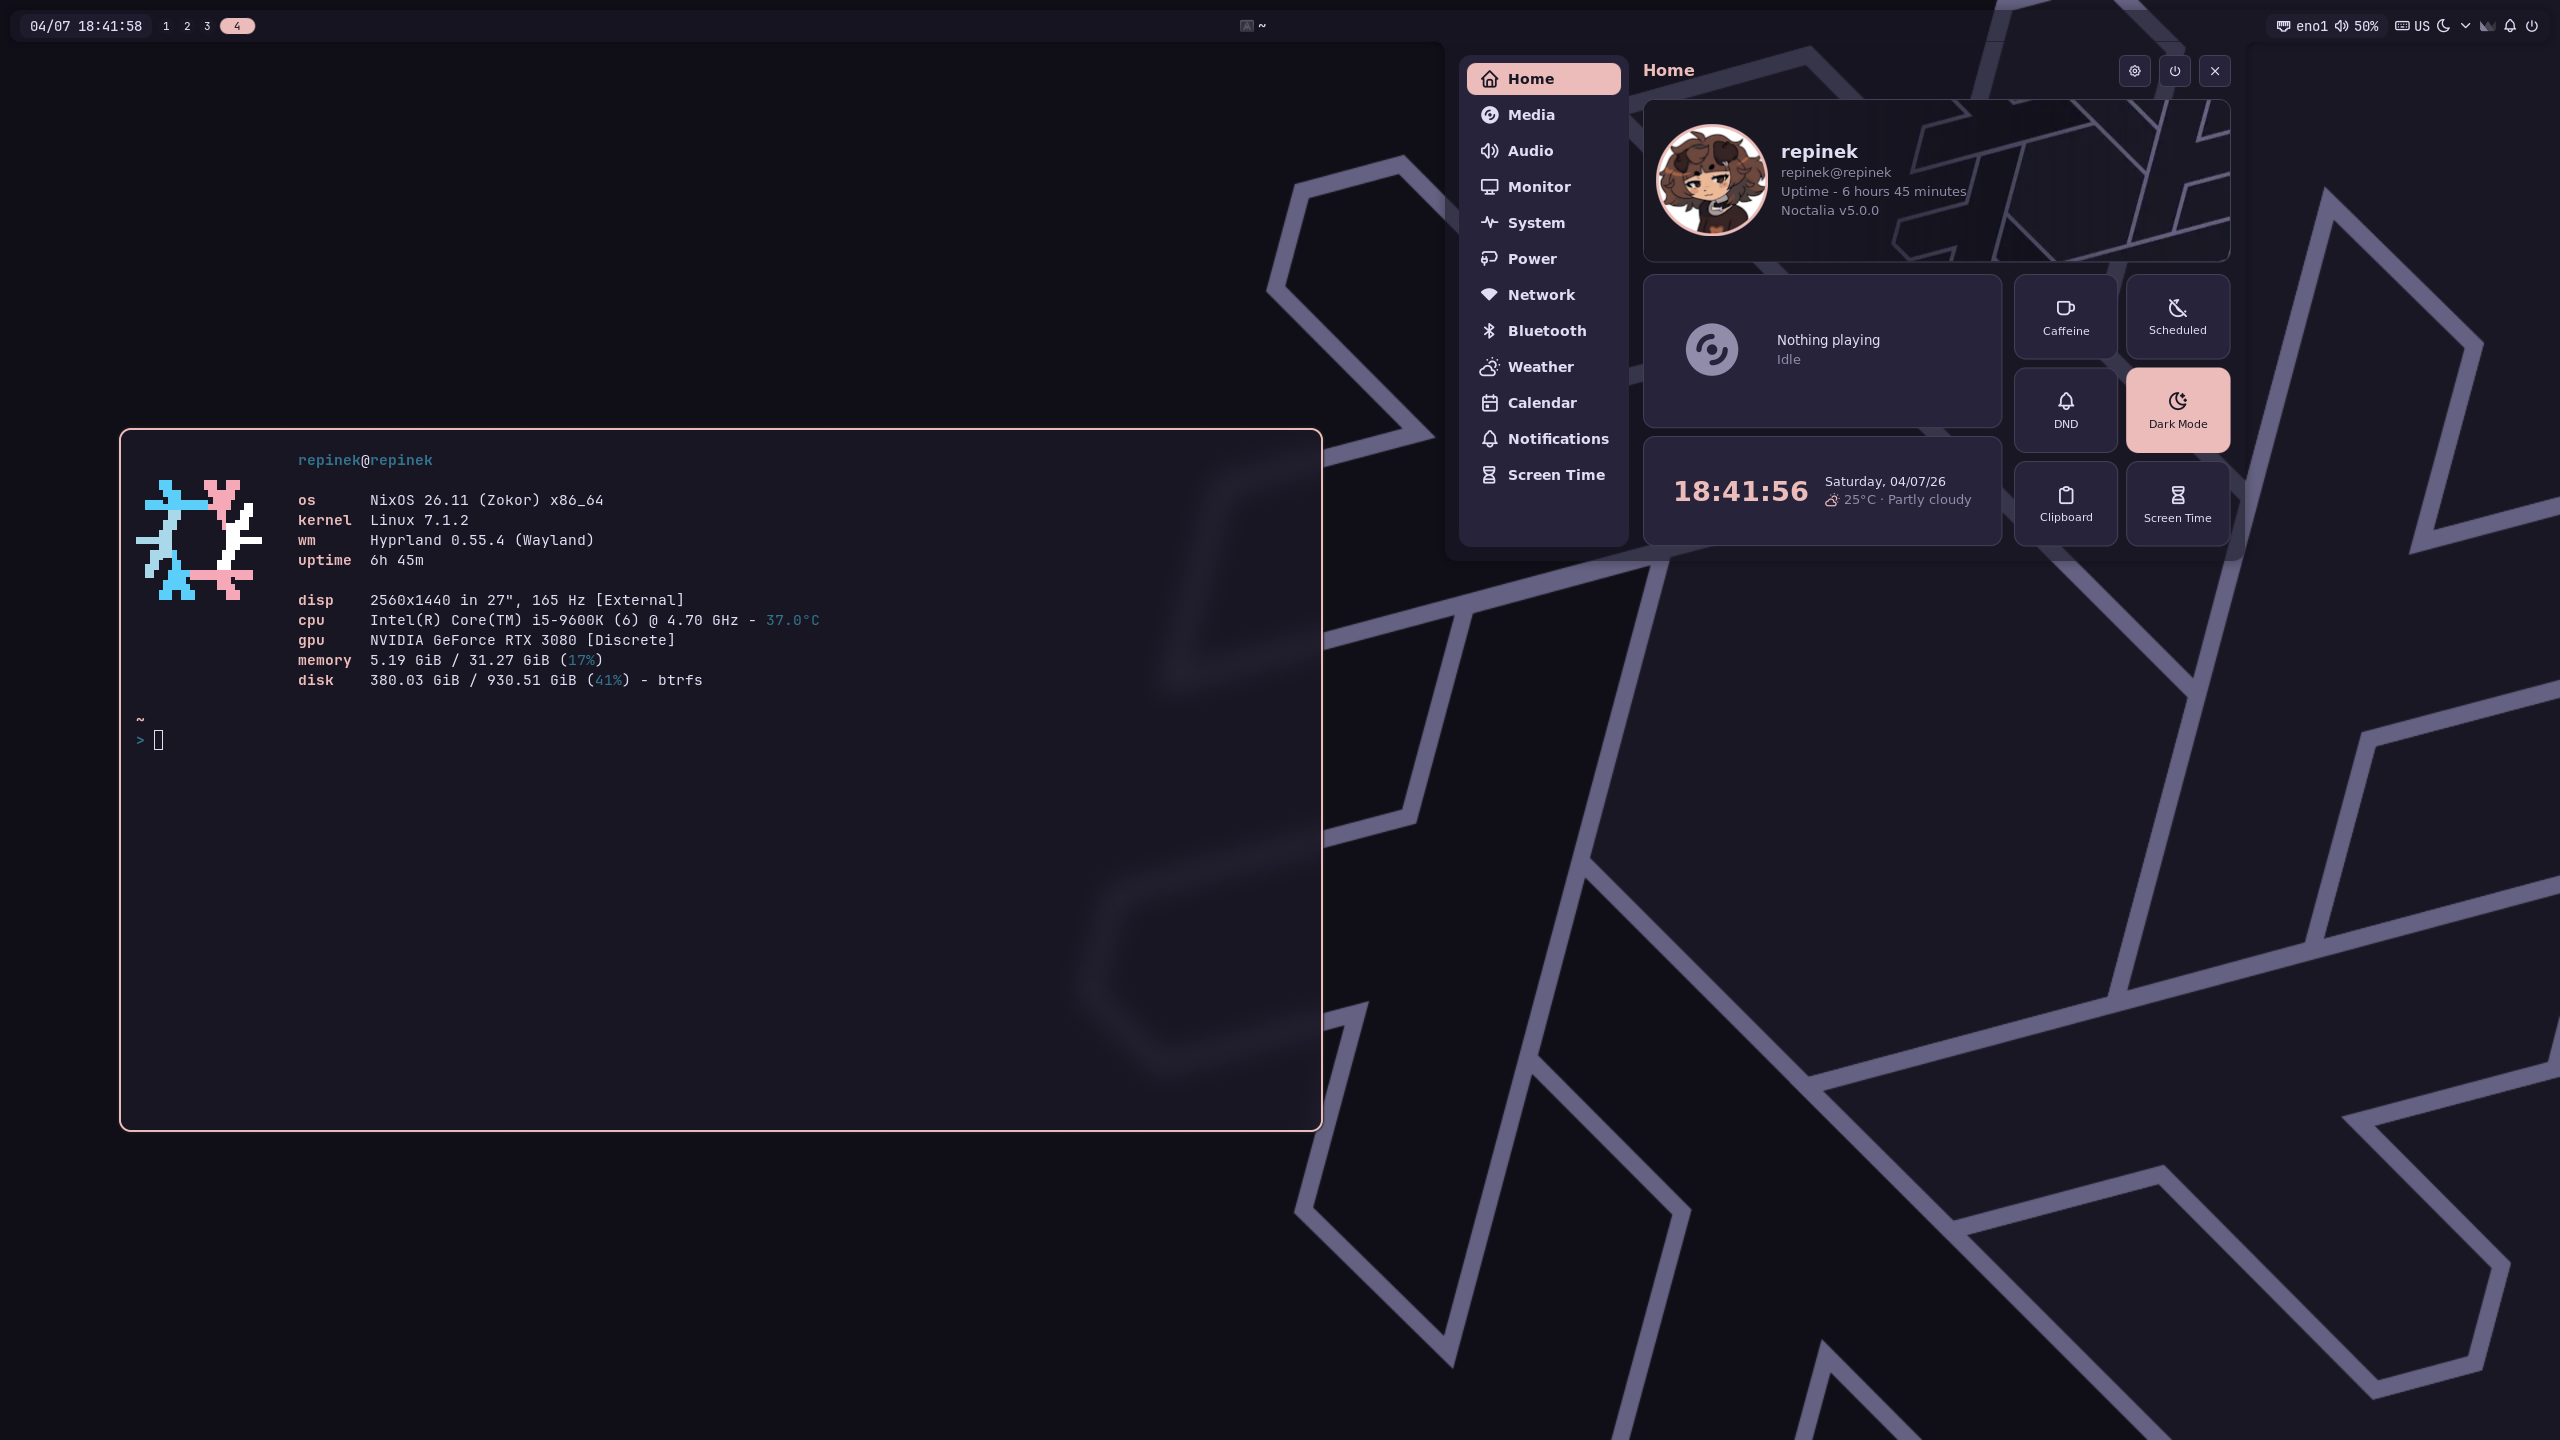
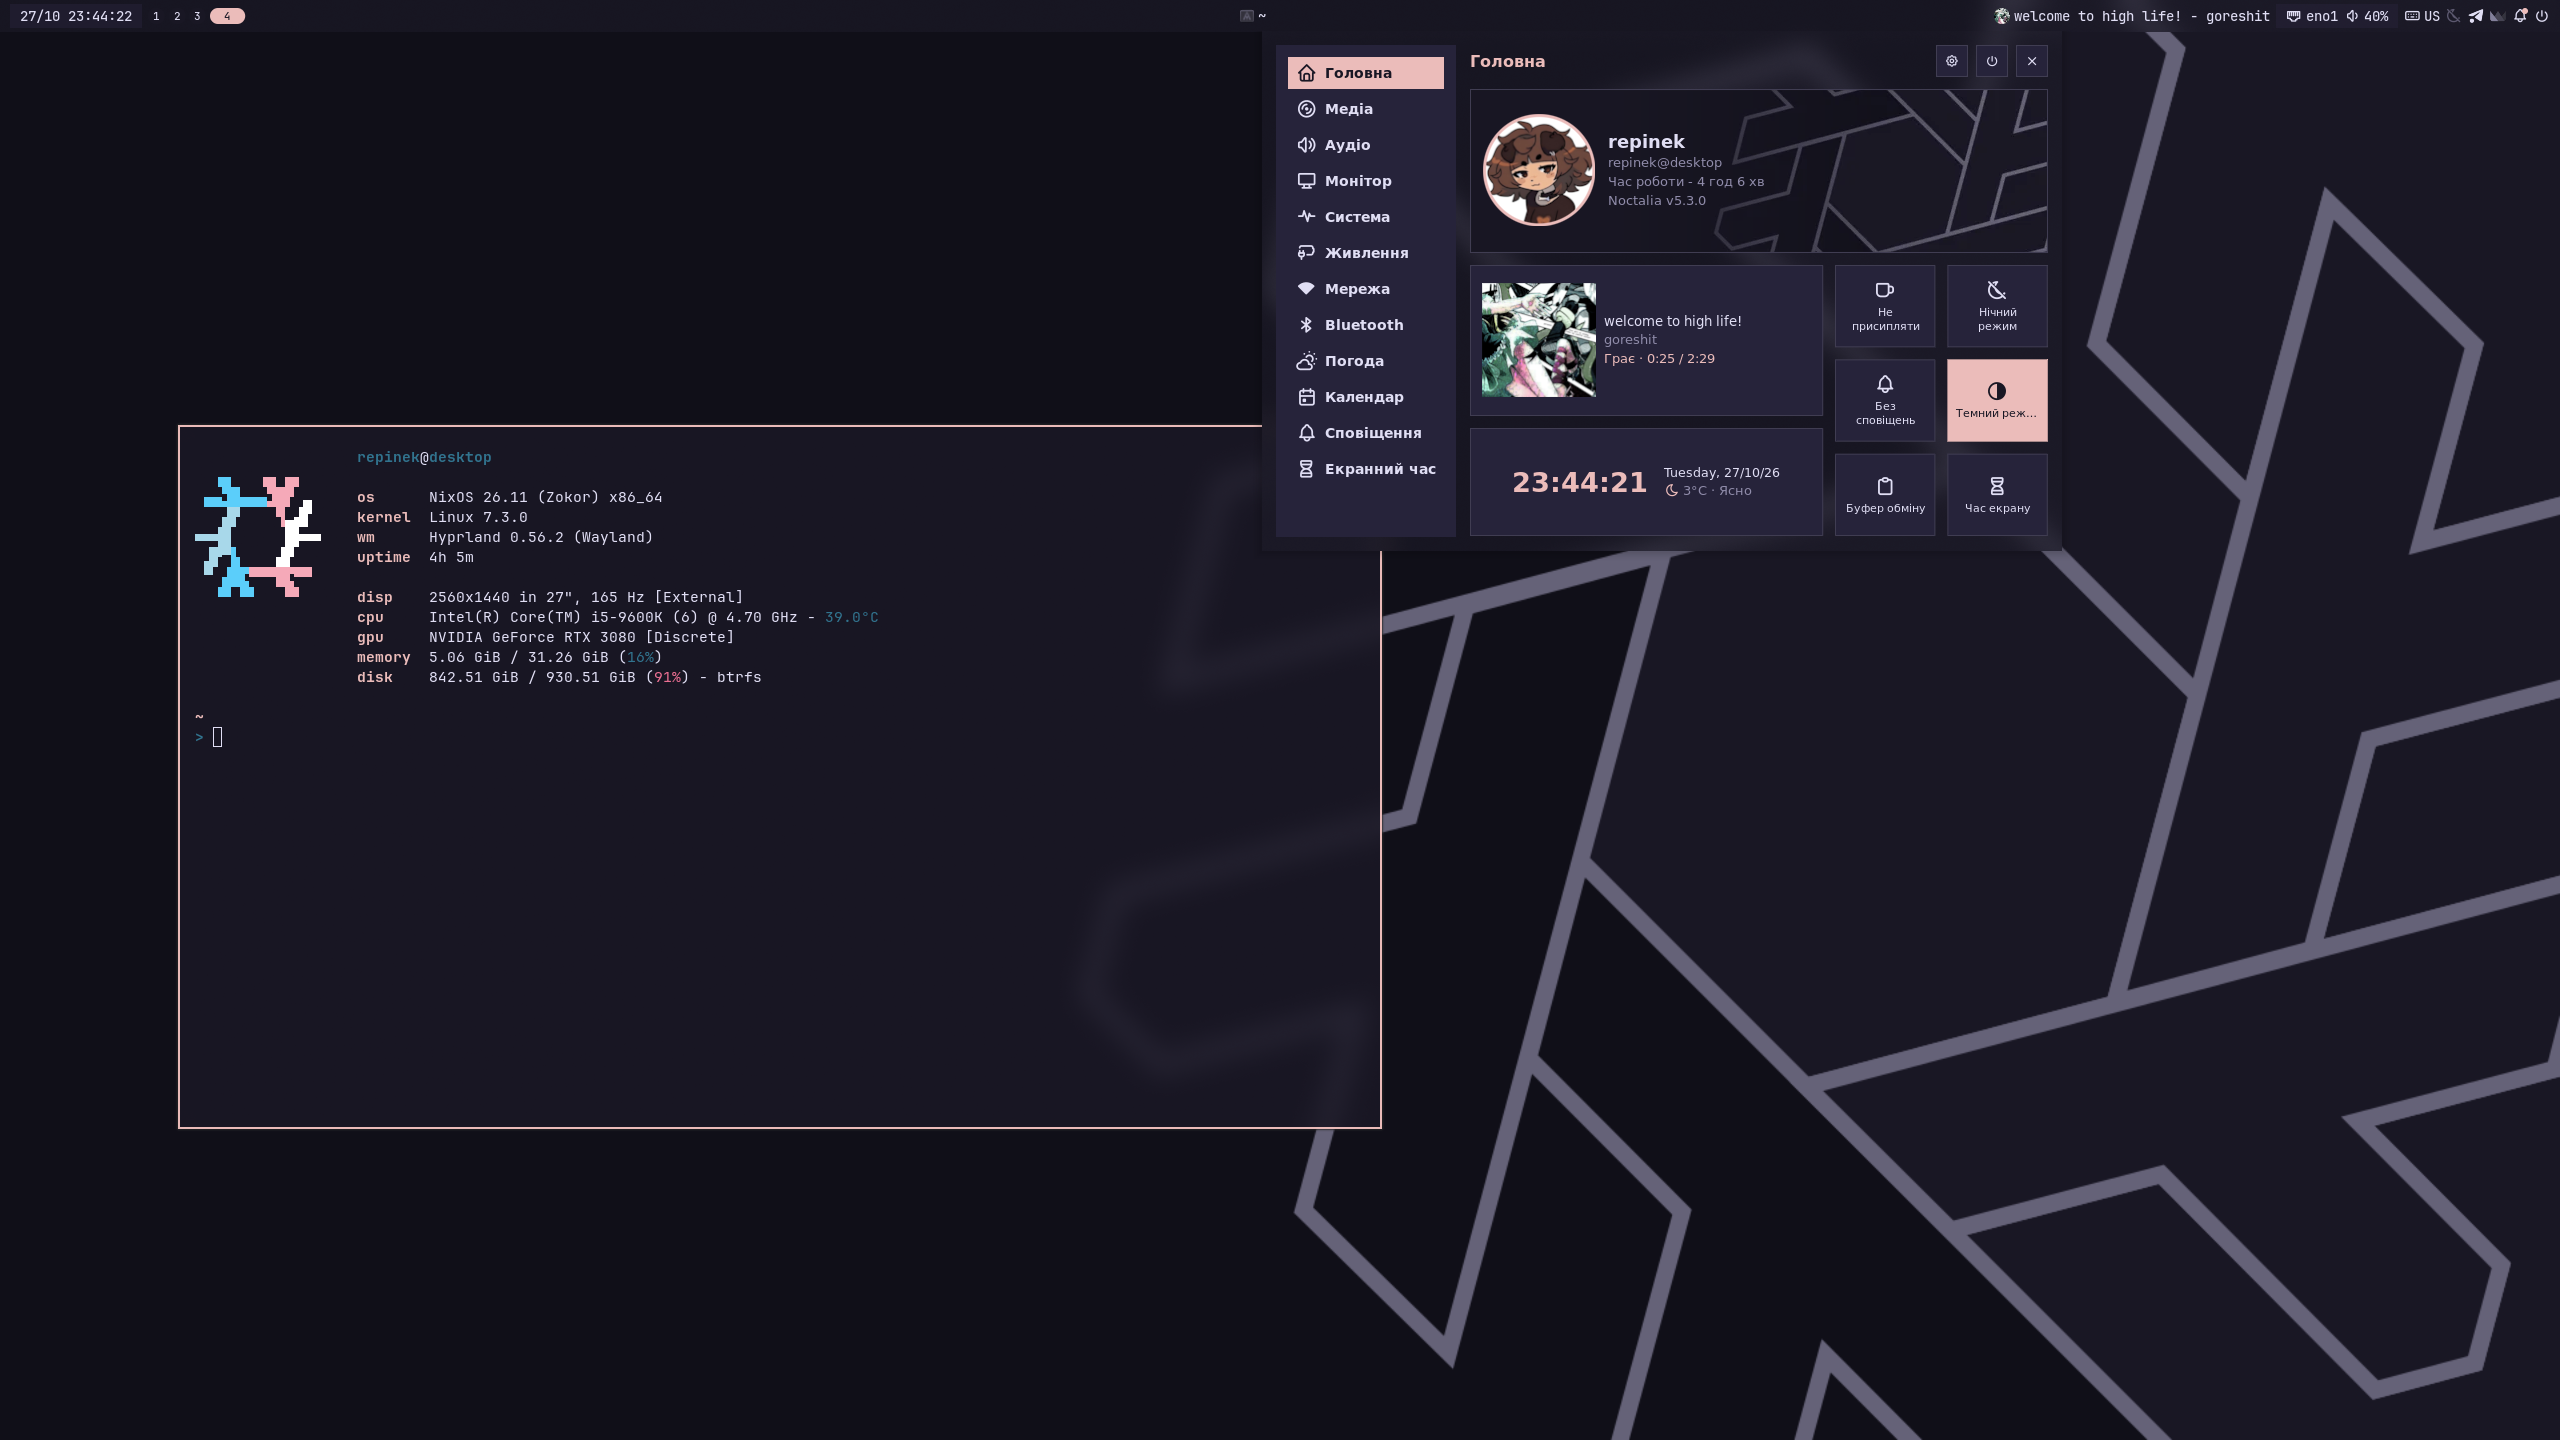
docs(README): update screenshots

diff --git a/README.md b/README.md
@@ -24,8 +24,10 @@ Declarative [NixOS](https://nixos.org) configuration with Home Manager for daily
 
 ## Screenshots
 
-<img src="assets/screenshots/screenshot_1.png" width="700" alt="Rose Pine Theme, Noctalia Shell, Hyprland, Alacritty and Control Center">
-<img src="assets/screenshots/screenshot_2.png" width="700" alt="Creamy Forest Theme, Noctalia Shell, Hyprland, Nemo and Media">
+<img src="assets/screenshots/screenshot_1.png" width="700" alt="Rose Pine theme, Noctalia Shell + Control Center, Hyprland, Alacritty terminal with fastfetch">
+<img src="assets/screenshots/screenshot_2.png" width="700" alt="Rose Pine theme, Noctalia Shell, Hyprland, Zed">
+<img src="assets/screenshots/screenshot_3.png" width="700" alt="Creamy Forest Theme, Noctalia Shell, Hyprland, LibreWolf browser">
+<img src="assets/screenshots/screenshot_4.png" width="700" alt="Rosey AMOLED Theme, Noctalia Shell, Hyprland, Nemo file manager">
 
 ## Features
 
@@ -115,8 +117,7 @@ cd nixos-dotfiles
 
 Not needed right now, just ideas for when I have free time
 
-- [ ] Make more square corners (Noctalia and hyprland)
-- [ ] Try quickshell 
+- [ ] Try quickshell
 - [ ] Do something with Obsidian (I don't like it after native apps, maybe switch it to something like NeoVim with plugins or Zed)
 - [ ] Try Niri one day
 - [ ] proxypin, httptoolkit, reqable* (or anything else for traffic capturing, not needed rn)
